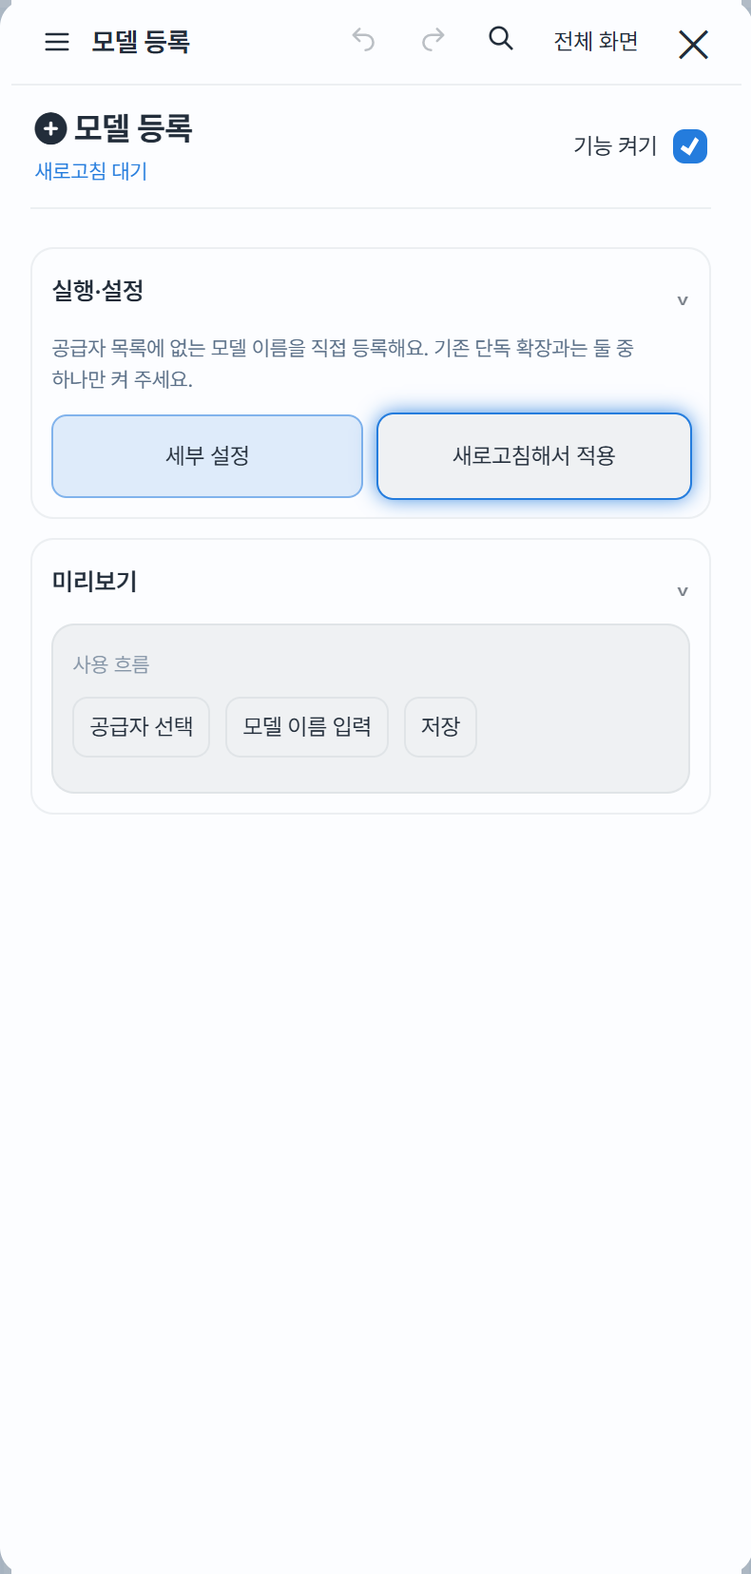
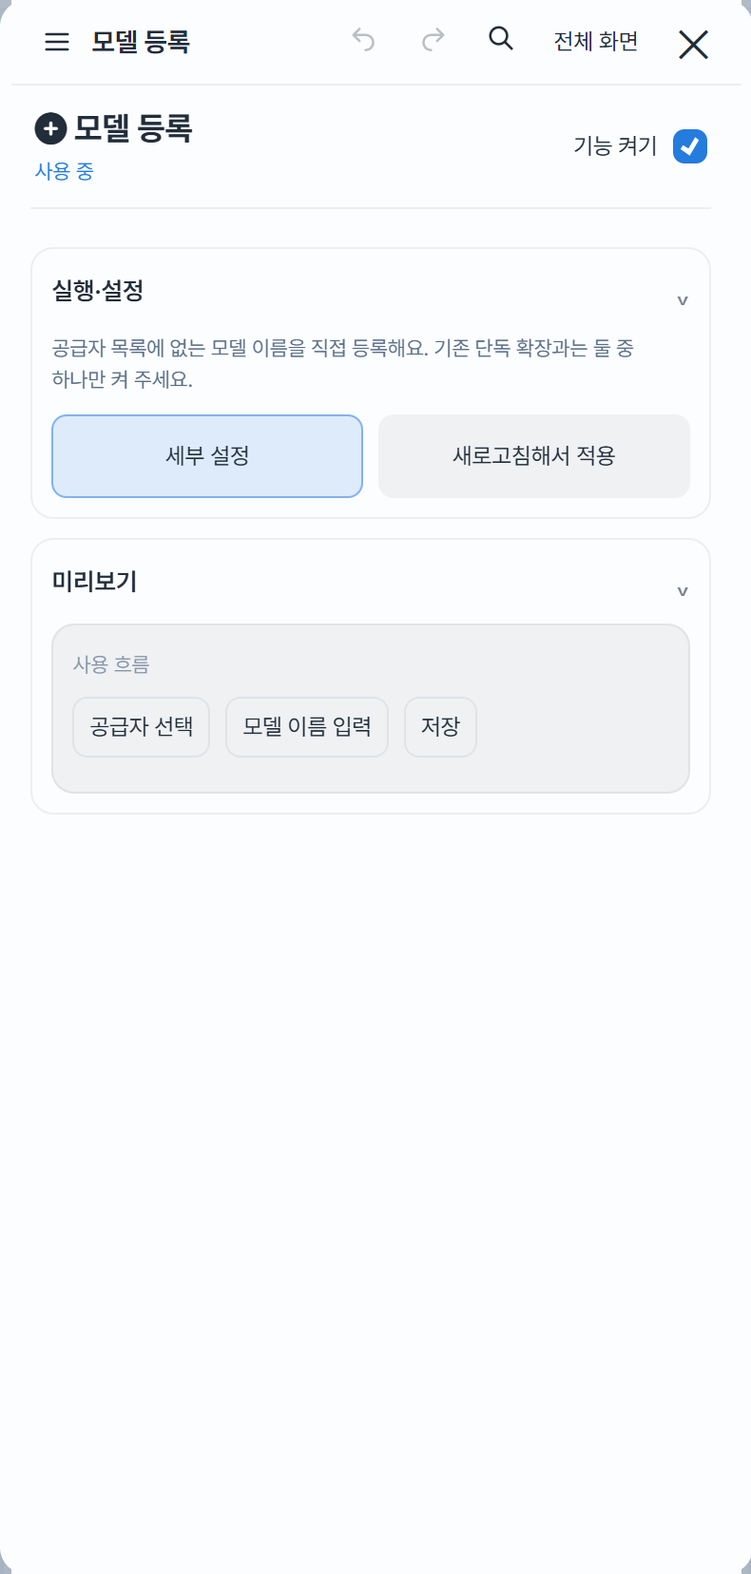
Site: 4.3.6 — prompt-linked regex addon, refreshed tool screens, corrected profile and script cards

Changed region(s): [[0.4861, 0.2464, 0.9418, 0.3388], [0.0608, 0.0924, 0.1823, 0.1232]]

diff --git a/docs/index.html b/docs/index.html
@@ -11,14 +11,14 @@
   <meta property="og:title" content="🍋 Blue Lemonade"><meta property="og:description" content="상큼하게, 가볍게, 조금 더 편하게. 실리태번 테마의 화면과 새 소식을 만나 보세요.">
   <meta property="og:image" content="https://kgangkgang.github.io/blue-lemonade/media/pc-chat.png">
   <link rel="preconnect" href="https://cdn.jsdelivr.net" crossorigin><link rel="stylesheet" href="https://cdn.jsdelivr.net/gh/orioncactus/pretendard@v1.3.9/dist/web/variable/pretendardvariable-dynamic-subset.min.css">
-  <link rel="stylesheet" href="site.css?v=426"><link rel="stylesheet" href="palette-preview.css?v=398-20260919-custom"><link rel="stylesheet" href="hero-phones.css?v=20260919-fit"><link rel="stylesheet" href="features.css?v=20260919-custom"><script src="features.js?v=20260919-custom" defer></script><script src="reading.js?v=20260919-custom" defer></script><script src="hero-phones.js?v=20260919-pop" defer></script><script src="site.js?v=434c" defer></script><script src="palette-preview.js?v=399-20260919-custom" defer></script>
+  <link rel="stylesheet" href="site.css?v=426"><link rel="stylesheet" href="palette-preview.css?v=398-20260919-custom"><link rel="stylesheet" href="hero-phones.css?v=20260919-fit"><link rel="stylesheet" href="features.css?v=20260919-custom"><script src="features.js?v=20260919-custom" defer></script><script src="reading.js?v=20260919-custom" defer></script><script src="hero-phones.js?v=20260919-pop" defer></script><script src="site.js?v=436" defer></script><script src="palette-preview.js?v=399-20260919-custom" defer></script>
 </head>
 <body>
   <header class="top"><div class="top-inner"><a class="brand" href="#"><span class="lemon" aria-hidden="true"></span>Blue Lemonade</a><nav aria-label="바로가기"><a href="#colors">테마 색상</a><a href="#gallery">둘러보기</a><a href="#features">전체 기능</a><a href="#updates">업데이트</a></nav><div class="top-actions"><button id="theme-toggle" class="icon-button" type="button" aria-label="화이트·나이트 전환"><svg viewBox="0 0 24 24" aria-hidden="true"><circle cx="12" cy="12" r="8.25" fill="none" stroke="currentColor" stroke-width="1.8"/><path d="M12 3.75a8.25 8.25 0 0 1 0 16.5z" fill="currentColor"/></svg></button><a class="button primary small" href="#install">설치</a></div></div><span class="progress" aria-hidden="true"></span></header>
   <main>
     <section class="hero">
       <div class="hero-copy">
-        <a class="release-chip" href="#updates"><span class="pulse" aria-hidden="true"></span><b>4.3.4</b><span>2026.09.21</span></a>
+        <a class="release-chip" href="#updates"><span class="pulse" aria-hidden="true"></span><b>4.3.6</b><span>2026.09.22</span></a>
         <h1>상큼하게,<br><span class="mark">가볍게</span><span class="dot">.</span></h1>
         <p class="lead">오래 머물고 싶은 이야기에는<br>눈이 편한 화면이 어울리니까.</p>
         <p class="intro">파란 형광펜과 레몬빛 포인트. 글꼴부터 색, 작은 버튼 하나까지 취향대로 바꾸는 SillyTavern 테마.</p>
@@ -71,10 +71,10 @@
     </section>
     <section id="gallery" class="section gallery-section" aria-labelledby="gallery-heading"><div class="section-head"><span class="eyebrow">03 · Look</span><h2 id="gallery-heading">이야기를 담는, 작은 차이.</h2><p>주제를 고르고 옆으로 넘겨 보세요. 이미지는 눌러서 크게 볼 수 있어요.</p></div><div id="galleries"></div><div id="rewrite-guide" class="rw-guide" hidden><ol class="rw-steps"><li><b>찾기</b><span>답변이 오면 금지 묘사 단어로 훑어요. 기기 안에서만 돌아서 비용이 없어요.</span></li><li><b>그 문장만 고치기</b><span>걸린 문장만 AI에게 보내 다시 쓰게 해요. 나머지 글은 한 글자도 안 바뀌어요.</span></li><li><b>안 되면 그대로</b><span>정한 횟수까지 다시 부탁하고, 끝내 안 되면 원래 문장을 남겨요.</span></li></ol><p class="rw-credit">기본 규칙·예외에 든 이름 <b>사탄 · 벨포드 · 아델스타인</b>은 <a href="https://kkangtong.xyz/posts/54677" target="_blank" rel="noopener">예시: 공유봇 천지합동청 ↗</a>의 캐릭터예요. 그 봇을 쓰지 않으면 지우거나 내 캐릭터 이름으로 바꾸세요.</p><p class="rw-where">확장 › 다시 쓰기에서 켜요.</p></div></section>
     <section id="features" class="section features-section" aria-labelledby="features-heading">
-      <div class="section-head"><span class="eyebrow">04 · Detail</span><h2 id="features-heading">작은 설정까지, 빠짐없이.</h2><p>묶음을 펼치면 기능과 설정 위치가 보여요. 4.1.2 기준.</p></div>
+      <div class="section-head"><span class="eyebrow">04 · Detail</span><h2 id="features-heading">작은 설정까지, 빠짐없이.</h2><p>묶음을 펼치면 기능과 설정 위치가 보여요. 4.3.6 기준.</p></div>
       <div class="feature-search" hidden><label for="feature-query" class="palette-sr-only">기능 찾기</label><svg viewBox="0 0 24 24" aria-hidden="true"><circle cx="10.5" cy="10.5" r="6.5" fill="none" stroke="currentColor" stroke-width="2"/><path d="m15.5 15.5 5 5" stroke="currentColor" stroke-width="2" stroke-linecap="round"/></svg><input id="feature-query" type="search" placeholder="자간, 들여쓰기, 글꼴, 이미지…" autocomplete="off"><button id="feature-clear" type="button" aria-label="검색어 지우기">×</button></div>
-      <p id="feature-result" class="feature-result" role="status">90가지 기능 안내</p>
-      <div id="feature-groups"><details class="feature-group"><summary><span><b>스크립트와 업데이트</b><small>한글화부터 접기, 업데이트까지 테마 안에서.</small></span><span class="feature-group-count">2가지</span></summary><div class="feature-grid"><article class="feature-card"><h4>한글화·접기 스크립트</h4><p>실리태번·헬퍼 한글화, 데우스·샤진 프롬프트 번역과 삼각형 접기를 각각 켜고 끄고, 코드도 편집할 수 있어요.</p><p>처음에는 모두 꺼져 있어요. 기존 헬퍼에서 같은 스크립트를 끈 뒤, 여기서 필요한 항목만 켜 주세요. PC는 왼쪽 목록·오른쪽 편집기, 모바일은 한 줄로 이어져요. 사용자 수정 코드는 테마 업데이트 뒤에도 남아요.</p><small>확장 › 스크립트</small></article><article class="feature-card"><h4>테마만 업데이트</h4><p>전체 확장 목록을 기다리지 않고 블루레몬에이드만 확인해요. Git 설치는 업데이트 버튼, ZIP 설치는 다운로드 안내를 제공해요.</p><p>업데이트 확인 → 업데이트하기 → 새로고침해서 적용 순서예요. 확인 버튼을 누르기 전에는 서버에 조회하지 않아요.</p><small>테마 › 업데이트</small></article></div></details><details class="feature-group" data-default-open="false"><summary><span><b>글자 · 문단</b><small>글꼴부터 문장 사이의 여백까지, 오래 읽기 편한 화면.</small></span><span class="feature-group-count">12가지</span></summary><div class="feature-grid"><article class="feature-card"><h4>본문 크기·굵기·자간</h4><p>글자를 키우거나 두껍게 하고, 글자 사이를 조여 한눈에 들어오는 밀도를 맞춰요.</p><small>글자 › 본문</small></article>
+      <p id="feature-result" class="feature-result" role="status">91가지 기능 안내</p>
+      <div id="feature-groups"><details class="feature-group"><summary><span><b>스크립트와 업데이트</b><small>한글화부터 접기, 업데이트까지 테마 안에서.</small></span><span class="feature-group-count">2가지</span></summary><div class="feature-grid"><article class="feature-card"><h4>한글화·접기 스크립트</h4><p>실리태번·헬퍼 한글화, 데우스·샤진 프롬프트 번역과 삼각형 접기를 각각 켜고 끄고, 코드도 편집할 수 있어요. 데우스 번역은 2.5의 「Extra Long」(아주 길게)·「Romantic」(로맨틱)까지 따라가요.</p><p>처음에는 모두 꺼져 있어요. 기존 헬퍼에서 같은 스크립트를 끈 뒤, 여기서 필요한 항목만 켜 주세요. PC는 왼쪽 목록·오른쪽 편집기, 모바일은 한 줄로 이어져요. 사용자 수정 코드는 테마 업데이트 뒤에도 남아요. 헬퍼 메뉴가 번역되지 않을 때는 <b>진단</b> 버튼을 누르면 무엇이 어긋났는지 몇 줄로 보여 줘요.</p><small>확장 › 스크립트</small></article><article class="feature-card"><h4>테마만 업데이트</h4><p>전체 확장 목록을 기다리지 않고 블루레몬에이드만 확인해요. Git 설치는 업데이트 버튼, ZIP 설치는 다운로드 안내를 제공해요.</p><p>업데이트 확인 → 업데이트하기 → 새로고침해서 적용 순서예요. 확인 버튼을 누르기 전에는 서버에 조회하지 않아요.</p><small>테마 › 업데이트</small></article></div></details><details class="feature-group" data-default-open="false"><summary><span><b>글자 · 문단</b><small>글꼴부터 문장 사이의 여백까지, 오래 읽기 편한 화면.</small></span><span class="feature-group-count">12가지</span></summary><div class="feature-grid"><article class="feature-card"><h4>본문 크기·굵기·자간</h4><p>글자를 키우거나 두껍게 하고, 글자 사이를 조여 한눈에 들어오는 밀도를 맞춰요.</p><small>글자 › 본문</small></article>
 <article class="feature-card"><h4>줄간격</h4><p>줄과 줄 사이를 넓히거나 좁혀, 긴 답변을 읽는 호흡을 바꿔요.</p><small>글자 › 본문</small></article>
 <article class="feature-card"><h4>문단 간격·첫 줄 들여쓰기</h4><p>문단 사이 여백과 첫 줄 들여쓰기를 따로 골라 소설책처럼 정돈해요.</p><small>글자 › 문단</small></article>
 <article class="feature-card"><h4>왼쪽·양쪽 정렬</h4><p>왼쪽 정렬, 낱말을 유지하는 양쪽 정렬, 낱말도 끊어 채우는 양쪽 정렬을 골라요.</p><small>글자 › 문단</small></article>
@@ -114,7 +114,7 @@
 <article class="feature-card"><h4>늘 보이는 메시지 버튼</h4><p>메시지의 ··· 메뉴 안 버튼 중 자주 쓰는 것을 골라 메뉴 밖에 늘 보이게 해요. 번역 같은 다른 확장의 버튼도 고를 수 있고, 풀면 원래 자리로 돌아가요.</p><small>채팅 › 화면 › 메시지 버튼</small></article>
 <article class="feature-card"><h4>백그라운드에서도 계속 (실험)</h4><p>답을 기다리는 동안 다른 앱을 봐도 생성과 자동 번역이 멈추지 않게 해요. 보내기 · 스와이프를 누를 때 켜지고, 끝나면 꺼져요.</p><p>기본은 창 없이 버티는 방식이고, 안 통하는 폰에서는 진행 상황이 보이는 작은 창(PIP) 방식을 골라요.</p><small>채팅 › 화면 › 폰</small></article>
 </div></details>
-<details class="feature-group" data-default-open="false"><summary><span><b>프로필 · 이름 · 장식 액자</b><small>캐릭터와 내 사진을 각각, 이름 아래 버튼까지.</small></span><span class="feature-group-count">7가지</span></summary><div class="feature-grid"><article class="feature-card"><h4>사진을 본문 위에 크게</h4><p>프로필 없음·작은 프로필·상단 큰 프로필 중 골라요. 본문 폭·가로 꽉·작게 배치, 픽셀·화면 높이 %·사진 비율과 세로로 남길 부분을 골라요. 위치·모서리·간격·흐림·투명도도 맞춰요.</p><small>채팅 › 캐릭터 프로필</small></article><article class="feature-card"><h4>내 프로필도 독립적으로</h4><p>내 메시지의 사진을 숨기거나 작게, 본문 위에 크게 놓아요. 작은 사진은 왼쪽·오른쪽을 선택해요. 큰 사진의 크기·자르기·액자·이름 글꼴·정렬과 시간·버튼 배치를 캐릭터와 따로 꾸며요. 프로필 없음·작은 프로필·상단 큰 프로필 세 가지 중 골라요.</p><small>채팅 › 내 프로필 · 내 이름·시간</small></article><article class="feature-card"><h4>이름도 나만의 글꼴로</h4><p>이름 글꼴과 언어별 글꼴, 크기·굵기·자간·줄 높이·색·정렬·기울임·밑줄·외곽선·그림자를 조절해요.</p><small>채팅 › 캐릭터 이름·시간</small></article><article class="feature-card"><h4>시간과 버튼 세 가지 배치</h4><p>시간·메뉴·편집 버튼을 이름 옆 두 줄, 이름 아래 한 줄, 이름 아래 두 줄로 놓아요. 간격과 시간 글자 크기·진하기도 바꿔요.</p><small>채팅 › 캐릭터 이름·시간</small></article><article class="feature-card"><h4>내 PNG로 장식 액자</h4><p>물든 수채화·맥 브라우저·스크랩 다이어리·리본 포스트·겹친 메모지·낙서 노트 6종을 고르거나 내 액자를 불러와요. 수채화는 사진 자체가 번진 물감 모양이 되고, 리본·별·레몬 스티커는 사진과 종이 위로 겹쳐요. 공용 보관함에 최대 12개를 저장하고 에셋·캐릭터·내 프로필에 서로 다르게 적용해요. 선 안쪽에만 사진을 채우고 바깥은 투명하게 남겨요. 프리셋의 바탕색·포인트색과 액자 가로·세로 비율을 따로 바꾸고, 안쪽 사진 모서리·확대·위치·맞춤과 장식 진하기도 조절해요. 기본 프리셋은 비율에 맞춰 장식을 다시 그리고, 직접 불러온 그림은 전체를 늘이거나 줄여요.</p><small>채팅 › 캐릭터 프로필 · 이미지 › 테두리</small></article><article class="feature-card"><h4>액자 안쪽을 직접 확인</h4><p>배경색 제거·허용 범위·끊긴 틈 연결을 조절하고 안쪽을 눌러 선택해요. 자동 인식이 어려우면 영역의 위치·크기·모서리를 직접 정해요.</p><small>장식 액자 불러오기</small></article><article class="feature-card"><h4>선과 그림자 세부 조절</h4><p>얇은 선·안쪽 선·은은한 빛·이중선에 색·두께·진하기·실선/점선·표시할 면·여백·그림자 색·진하기·방향·번짐·확장을 더해요. 장식 액자는 네모 상자가 아닌 실제 액자 외곽에 그림자가 생기며 미리보기에도 바로 반영돼요.</p><small>채팅 › 캐릭터 프로필 · 이미지 › 테두리</small></article></div></details>
+<details class="feature-group" data-default-open="false"><summary><span><b>프로필 · 이름 · 장식 액자</b><small>캐릭터와 내 사진을 각각, 이름 아래 버튼까지.</small></span><span class="feature-group-count">7가지</span></summary><div class="feature-grid"><article class="feature-card"><h4>사진을 본문 위에 크게</h4><p>프로필 없음·작은 프로필·상단 큰 프로필 중 골라요. 본문 폭·가로 꽉·작게 배치, 픽셀·화면 높이 %·사진 비율과 세로로 남길 부분을 골라요. 위치·모서리·간격·흐림·투명도도 맞춰요.</p><small>채팅 › 캐릭터 프로필</small></article><article class="feature-card"><h4>내 프로필도 독립적으로</h4><p>내 메시지의 사진을 숨기거나 작게, 본문 위에 크게 놓아요. 작은 사진은 자동(말풍선이면 오른쪽)·왼쪽·오른쪽 중에 고르고, 번호·시간 줄도 사진 따라·왼쪽·오른쪽으로 놓아요. 큰 사진의 크기·자르기·액자·이름 글꼴·정렬과 시간·버튼 배치를 캐릭터와 따로 꾸며요. 프로필 없음·작은 프로필·상단 큰 프로필 세 가지 중 골라요.</p><small>채팅 › 내 프로필 · 내 이름·시간</small></article><article class="feature-card"><h4>이름도 나만의 글꼴로</h4><p>이름 글꼴과 언어별 글꼴, 크기·굵기·자간·줄 높이·색·정렬·기울임·밑줄·외곽선·그림자를 조절해요.</p><small>채팅 › 캐릭터 이름·시간</small></article><article class="feature-card"><h4>시간과 버튼 세 가지 배치</h4><p>시간·메뉴·편집 버튼을 이름 옆 두 줄, 이름 아래 한 줄, 이름 아래 두 줄로 놓아요. 간격과 시간 글자 크기·진하기도 바꿔요.</p><small>채팅 › 캐릭터 이름·시간</small></article><article class="feature-card"><h4>내 PNG로 장식 액자</h4><p>물든 수채화·맥 브라우저·스크랩 다이어리·리본 포스트·겹친 메모지·낙서 노트 6종을 고르거나 내 액자를 불러와요. 수채화는 사진 자체가 번진 물감 모양이 되고, 리본·별·레몬 스티커는 사진과 종이 위로 겹쳐요. 공용 보관함에 최대 12개를 저장하고 에셋·캐릭터·내 프로필에 서로 다르게 적용해요. 선 안쪽에만 사진을 채우고 바깥은 투명하게 남겨요. 프리셋의 바탕색·포인트색과 액자 가로·세로 비율을 따로 바꾸고, 안쪽 사진 모서리·확대·위치·맞춤과 장식 진하기도 조절해요. 기본 프리셋은 비율에 맞춰 장식을 다시 그리고, 직접 불러온 그림은 전체를 늘이거나 줄여요.</p><small>채팅 › 캐릭터 프로필 · 이미지 › 테두리</small></article><article class="feature-card"><h4>액자 안쪽을 직접 확인</h4><p>배경색 제거·허용 범위·끊긴 틈 연결을 조절하고 안쪽을 눌러 선택해요. 자동 인식이 어려우면 영역의 위치·크기·모서리를 직접 정해요.</p><small>장식 액자 불러오기</small></article><article class="feature-card"><h4>선과 그림자 세부 조절</h4><p>얇은 선·안쪽 선·은은한 빛·이중선에 색·두께·진하기·실선/점선·표시할 면·여백·그림자 색·진하기·방향·번짐·확장을 더해요. 장식 액자는 네모 상자가 아닌 실제 액자 외곽에 그림자가 생기며 미리보기에도 바로 반영돼요.</p><small>채팅 › 캐릭터 프로필 · 이미지 › 테두리</small></article></div></details>
 <details class="feature-group" data-default-open="false"><summary><span><b>이미지 · 에셋</b><small>그림도 채팅 속에 자연스럽게 들어오도록.</small></span><span class="feature-group-count">8가지</span></summary><div class="feature-grid"><article class="feature-card"><h4>가로 꽉·본문 폭·작게</h4><p>채팅 이미지를 화면 끝까지 넓히거나 본문 폭에 맞추고, 작게 넣을 수도 있어요.</p><small>이미지 › 배치</small></article>
 <article class="feature-card"><h4>비율 유지·높이 맞춤</h4><p>원본 비율을 살리면서 최대 높이를 제한하거나, 그림마다 일정한 높이에 맞춰요.</p><small>이미지 › 크기</small></article>
 <article class="feature-card"><h4>모서리·커스텀 모양</h4><p>네모 이미지의 모서리를 둥글게 하고, 투명한 그림을 도형으로 불러와 원하는 실루엣으로 보여 줘요.</p><small>이미지 › 모양</small></article>
@@ -133,10 +133,11 @@
 <article class="feature-card"><h4>트래커 날씨 따라가기</h4><p>데우스 호환을 켜면 트래커가 비·눈을 알려 줄 때 채팅 뒤 날씨 효과도 따라가요.</p><p>비 · 눈 · 안개 · 햇살 · 밤의 별 · 무지개 · 바람을 알아보고, 실내의 비는 유리 빗방울로 바꿔요. 둘이면 겹치고, 빼고 싶은 날씨는 ‘제외할 날씨’에서 골라요.</p><small>프롬프트 › 트래커 날씨로 날씨 효과</small></article>
 <article class="feature-card"><h4>데우스 감정 대사 애니메이션</h4><p>데우스 엑스 마키나의 Expressive Dialogue(외침 · 떨림 · 울음 · 들뜸 …)가 테마 위에서도 또렷하게 움직여요. 움직임 크기(은은하게 · 보통 · 크게), 빛, 색 흐름을 따로 고르고, 색 흐름은 글자나 형광펜 중 어디에 줄지 정해요. 「」·『』 대사도 테마가 알아서 잡아요.</p><p>기기가 애니메이션 줄이기 상태면 ‘기기 설정 무시’를 켜야 움직여요. 설정 창 미리보기에서 바로 확인할 수 있어요.</p><small>프롬프트 › 데우스 엑스 마키나 › 감정 대사 효과</small></article>
 </div></details>
-<details class="feature-group" data-default-open="false"><summary><span><b>선택해서 켜는 확장</b><small>PC에서는 왼쪽에서 기능·표시 위치를 고르고 오른쪽에서 세부 설정을 바로 조절해요. 모바일에서는 세부 설정 버튼을 눌러요. 필요한 기능만 켜요. 확장 순서·성능 보조·모델 등록·모델 순서는 전환 후 새로고침해요.</small></span><span class="feature-group-count">9가지</span></summary><div class="feature-grid"><article class="feature-card"><h4>단어 치환</h4><p>찾을 말은 쉼표로 함께 적어요. 예: 레몬, lemon → 귤. ? 버튼에서 대소문자·낱말·조사 보정 예시를 봐요.</p><p>이전 채팅 불러오기에 10을 입력하면 지금 목록에 10개를 더해요. 메시지 목록의 번역본 보기·원문 보기로 내용을 확인해요. 번역이 없으면 원문이라고 표시해요. 선택한 원문이나 번역문을 작업대로 가져오고, 채팅에 적용하기 전에 전후를 비교해요.</p><small>확장 › 단어 치환</small></article><article class="feature-card"><h4>채팅 이미지·영상·움짤 캡처</h4><p>메시지 목록에서 번역본 보기·원문 보기로 내용을 확인해요. 메시지 선택 → 저장 형식과 표시 항목 선택 → 미리보기 → 저장 순서로 써요. 본문만·전체 정보·직접 선택으로 이름·프로필·날짜와 시간·모델·채팅 번호·토큰·생성 시간·에셋을 각각 고르고, 캡처용 글 편집에서 문장을 고치거나 문단을 옮겨요.</p><p>캡처에만 단어 치환을 적용하거나 여러 이름을 가려요. 네모·모자이크·테이프마다 색·여백·외곽선·그림자를 따로 저장해요. 원문과 번역문은 바뀌지 않아요.</p><p>PNG는 최대 3배·16MP, 영상은 3~30초·너비 최대 1080px 또는 1440px·30fps로 저장해요. 자동 스크롤 없이 고정 화면으로 저장해요. 파일당 최대 문단 수를 1~20개로 정하고, 화면을 넘는 긴 문단은 줄 사이에서 더 나눠요. 각 파일을 미리 보거나 전체 ZIP으로 저장해요. GIF는 최대 720px·10fps·256색이에요. 재생 중인 배경과 날씨를 담고 테마색 비율로 가독성을 조절해요. 원본 대화나 재생 시간 설정을 바꾸지 않으며, 소리는 포함하지 않아요.</p><p>영상과 움짤에는 채팅에서 돌던 글자 움직임(데우스 감정 대사의 흔들림 · 빛 · 색 흐름)도 함께 담겨요.</p><p>움짤은 GIF · APNG(색 그대로) · WebP(가볍게) 중에 고르고, APNG · WebP 는 최대 용량(MB)을 정하면 한도에 맞춰 저장해요. 미리보기 아래에 파일 용량이 나와요.</p><p>캡처 창을 열면 빠른 미리보기로 첫 화면부터 보고, 저장할 파일은 ‘파일 만들기’를 누를 때만 만들어요. 8MB 움짤 · 선명한 움짤 · 고화질 영상 · 이미지 프리셋이 들어 있고 내 프리셋도 12개까지 저장해요. 글 편집은 문단마다 한 줄 + 체크박스라, 고른 문단만 남기거나 한 번에 지워요.</p><small>확장 › 채팅 캡처</small></article><article class="feature-card"><h4>확장 순서</h4><p>기능을 켠 뒤 새로고침해서 적용을 눌러요. 세부 설정에서 순서를 정하고, 확장 관리 탭 상단 아이콘을 표시할지 골라요. 위치 미리보기로 어디에 나타나는지 확인해요. 기존 단독 확장이 켜져 있으면 중복 실행을 막아요.</p><small>확장 › 확장 순서</small></article><article class="feature-card"><h4>성능 보조</h4><p>끊김 감시·로딩 시간·성능 보조·요청 로그·저장 정리의 별 두 개 메뉴 표시를 각각 골라요. ? 버튼에서 부분 다시 그리기와 저장 방식 설명을 봐요.</p><p>끊김 감시는 스트리밍 응답에만 적용돼요. 비스트리밍 응답과 첫 내용이 도착하기 전의 대기는 기본적으로 감시하지 않아요. 메뉴 숨김은 기능 끄기와 별개예요.</p><small>확장 › 성능 보조</small></article><article class="feature-card"><h4>모델 등록</h4><p>목록에 없는 모델 이름을 공급자별로 직접 등록해요. 기존 단독 확장과 중복 실행하지 않아요.</p><small>확장 › 모델 등록</small></article><article class="feature-card"><h4>모델 순서</h4><p>직접 등록한 모델의 손잡이를 끌거나 화살표로 정렬해요. 기존 단독 확장과 함께 실행하지 않아요.</p><small>확장 › 모델 순서</small></article>
+<details class="feature-group" data-default-open="false"><summary><span><b>선택해서 켜는 확장</b><small>PC에서는 왼쪽에서 기능·표시 위치를 고르고 오른쪽에서 세부 설정을 바로 조절해요. 모바일에서는 세부 설정 버튼을 눌러요. 필요한 기능만 켜요. 확장 순서·성능 보조·모델 등록·모델 순서는 전환 후 새로고침해요.</small></span><span class="feature-group-count">10가지</span></summary><div class="feature-grid"><article class="feature-card"><h4>단어 치환</h4><p>찾을 말은 쉼표로 함께 적어요. 예: 레몬, lemon → 귤. ? 버튼에서 대소문자·낱말·조사 보정 예시를 봐요.</p><p>이전 채팅 불러오기에 10을 입력하면 지금 목록에 10개를 더해요. 메시지 목록의 번역본 보기·원문 보기로 내용을 확인해요. 번역이 없으면 원문이라고 표시해요. 선택한 원문이나 번역문을 작업대로 가져오고, 채팅에 적용하기 전에 전후를 비교해요.</p><small>확장 › 단어 치환</small></article><article class="feature-card"><h4>채팅 이미지·영상·움짤 캡처</h4><p>메시지 목록에서 번역본 보기·원문 보기로 내용을 확인해요. 메시지 선택 → 저장 형식과 표시 항목 선택 → 미리보기 → 저장 순서로 써요. 본문만·전체 정보·직접 선택으로 이름·프로필·날짜와 시간·모델·채팅 번호·토큰·생성 시간·에셋을 각각 고르고, 캡처용 글 편집에서 문장을 고치거나 문단을 옮겨요.</p><p>캡처에만 단어 치환을 적용하거나 여러 이름을 가려요. 네모·모자이크·테이프마다 색·여백·외곽선·그림자를 따로 저장해요. 원문과 번역문은 바뀌지 않아요.</p><p>PNG는 최대 3배·16MP, 영상은 3~30초·너비 최대 1080px 또는 1440px·30fps로 저장해요. 자동 스크롤 없이 고정 화면으로 저장해요. 파일당 최대 문단 수를 1~20개로 정하고, 화면을 넘는 긴 문단은 줄 사이에서 더 나눠요. 각 파일을 미리 보거나 전체 ZIP으로 저장해요. GIF는 최대 720px·10fps·256색이에요. 재생 중인 배경과 날씨를 담고 테마색 비율로 가독성을 조절해요. 원본 대화나 재생 시간 설정을 바꾸지 않으며, 소리는 포함하지 않아요.</p><p>영상과 움짤에는 채팅에서 돌던 글자 움직임(데우스 감정 대사의 흔들림 · 빛 · 색 흐름)도 함께 담겨요.</p><p>움짤은 GIF · APNG(색 그대로) · WebP(가볍게) 중에 고르고, APNG · WebP 는 최대 용량(MB)을 정하면 한도에 맞춰 저장해요. 미리보기 아래에 파일 용량이 나와요.</p><p>캡처 창을 열면 빠른 미리보기로 첫 화면부터 보고, 저장할 파일은 ‘파일 만들기’를 누를 때만 만들어요. 8MB 움짤 · 선명한 움짤 · 고화질 영상 · 이미지 프리셋이 들어 있고 내 프리셋도 12개까지 저장해요. 글 편집은 문단마다 한 줄 + 체크박스라, 고른 문단만 남기거나 한 번에 지워요.</p><small>확장 › 채팅 캡처</small></article><article class="feature-card"><h4>확장 순서</h4><p>기능을 켠 뒤 새로고침해서 적용을 눌러요. 세부 설정에서 순서를 정하고, 확장 관리 탭 상단 아이콘을 표시할지 골라요. 위치 미리보기로 어디에 나타나는지 확인해요. 기존 단독 확장이 켜져 있으면 중복 실행을 막아요.</p><small>확장 › 확장 순서</small></article><article class="feature-card"><h4>성능 보조</h4><p>끊김 감시·로딩 시간·성능 보조·요청 로그·저장 정리의 별 두 개 메뉴 표시를 각각 골라요. ? 버튼에서 부분 다시 그리기와 저장 방식 설명을 봐요.</p><p>끊김 감시는 스트리밍 응답에만 적용돼요. 비스트리밍 응답과 첫 내용이 도착하기 전의 대기는 기본적으로 감시하지 않아요. 메뉴 숨김은 기능 끄기와 별개예요.</p><small>확장 › 성능 보조</small></article><article class="feature-card"><h4>모델 등록</h4><p>목록에 없는 모델 이름을 공급자별로 직접 등록해요. 기존 단독 확장과 중복 실행하지 않아요.</p><small>확장 › 모델 등록</small></article><article class="feature-card"><h4>모델 순서</h4><p>직접 등록한 모델의 손잡이를 끌거나 화살표로 정렬해요. 기존 단독 확장과 함께 실행하지 않아요.</p><small>확장 › 모델 순서</small></article>
 <article class="feature-card"><h4>모델 전환</h4><p>모델을 따로 고르는 확장들의 공급자와 모델을 한 번에 바꿔요. 자주 쓰는 조합을 저장해 두고, 바꿀 확장은 체크로 골라요.</p><p>잠금을 켜면 고른 확장의 연결 칸을 그 확장 화면에서 실수로 바꾸지 않게 막아요.</p><small>확장 › 모델 전환</small></article>
 <article class="feature-card"><h4>다시 쓰기</h4><p>AI 답변에서 보기 싫은 묘사가 나온 문장만 골라 다시 쓰게 해요. 금지 단어 규칙은 직접 적거나, 들어 있는 프롬프트를 AI에게 주고 만들게 할 수 있어요.</p><p>기본 규칙의 이름 예시(사탄 · 벨포드 · 아델스타인)는 <a href="https://kkangtong.xyz/posts/54677" target="_blank" rel="noopener">예시: 공유봇 천지합동청</a>의 캐릭터예요. 그 봇을 쓰지 않으면 지우거나 내 캐릭터 이름으로 바꾸세요.</p><small>확장 › 다시 쓰기</small></article>
 <article class="feature-card"><h4>북마크</h4><p>메시지의 별 단추로 표시를 남기고(길게 누르면 메모), ✦ 메뉴의 북마크에서 모아 보고 · 찾고 · 그 자리로 돌아가요. 앞뒤 문맥 보기, 같은 캐릭터의 다른 채팅, 채팅 전체 검색, 번역 확장 연동이 들어 있어요.</p><p>카드의 글은 채팅과 같은 서식(글꼴 · 자간 · 줄 간격 · 대사 형광펜 · 데우스 감정 대사의 움직임)이에요. 접힌 카드는 세 줄만 보이고, 데우스 엑스 마키나 › 본문만 보기로 장면 계획 · 트래커 카드를 뺄 수 있어요. 북마크 설정의 테마에서 밝게 · 어둡게를 고르면 채팅은 그대로 두고 북마크 창만 바뀌어요.</p><small>확장 › 북마크</small></article>
+<article class="feature-card"><h4>프롬프트 연동 정규식</h4><p>프롬프트 관리자에서 끈 모듈(모멘텀 엔진 · 상태창 · 선택지 …)의 정규식을 자동으로 꺼요. 다시 켜면 원래대로 돌아오고, 꺼진 정규식은 답이 오는 동안 돌지 않아 스트리밍이 가벼워져요.</p><p>정규식 이름·내용의 @태그와 프롬프트 이름을 맞춰 짝을 찾고, 모듈마다 프롬프트 따라 · 늘 켜기 · 늘 끄기를 고를 수 있어요. 이전 답에 그 모듈이 남아 있으면 켜 둬요. 처음에는 꺼져 있어요.</p><small>확장 › 프롬프트 연동 정규식</small></article>
 </div></details>
 <details class="feature-group" data-default-open="false"><summary><span><b>설정 · 백업</b><small>손본 모습은 보관하고, 다음에도 편하게.</small></span><span class="feature-group-count">16가지</span></summary><div class="feature-grid"><article class="feature-card"><h4>말로 찾는 설정 검색</h4><p>QR 편집, 내 사진 오른쪽, 에셋 그림자처럼 기능 이름이나 자주 쓰는 표현으로 찾아요. 결과를 누르면 관련 탭과 항목으로 이동해요. 접힌 기능도 검색하며 검색어는 기기 안에서만 처리해요.</p><small>설정 창 상단 › 설정 찾기</small></article><article class="feature-card"><h4>미리보기 확대·축소·이동</h4><p>50~300%로 가까이 보거나 멀리 봐요. PC에서는 −·+ 버튼과 드래그·방향키, 모바일에서는 두 손가락과 드래그로 조절해요. 원래 크기로 돌아갈 수 있고 테마의 실제 크기 값은 그대로예요.</p><small>각 미리보기 › 확대·축소·원래 크기</small></article><article class="feature-card"><h4>전체 화면·되돌리기</h4><p>설정창 위쪽 버튼으로 전체 화면과 작은 창을 바꾸고, 되돌리기·다시 실행으로 방금 바꾼 값을 오가요. 무엇이 바뀌었는지 알림으로 보여 주고 최근 40단계를 기억해요.</p><small>설정창 위 버튼 · 미리보기 손잡이로 높이 조절</small></article><article class="feature-card"><h4>항목별 초기화·변경한 설정</h4><p>바꾼 설정 옆 ↺ 버튼으로 그 항목만 기본값으로 돌려요. 변경한 설정에서 기본값과 다른 항목을 모아 보고, 그 설정으로 가거나 하나씩 복원해요. 저장한 액자·글꼴·스타일은 지우지 않아요.</p><small>테마 › 변경한 설정 · 각 설정 옆 ↺</small></article><article class="feature-card"><h4>폰에서도 안전한 슬라이더</h4><p>슬라이더는 손가락을 가로로 밀 때만 움직여요. 세로로 스크롤하거나 살짝 닿아도 값이 바뀌지 않아요.</p><small>모바일 설정창</small></article><article class="feature-card"><h4>큰 숫자는 쉼표로</h4><p>컨텍스트 크기·응답 길이·토큰 수처럼 큰 숫자를 128,000처럼 끊어 보여 줘요. 입력한 값과 저장되는 값은 그대로라 0 하나를 더 붙였는지 헷갈리지 않아요.</p><small>실리태번 설정 전체</small></article><article class="feature-card"><h4>폰에서도 두 칸으로 · 프롬프트 목록 정리</h4><p>AI 응답 설정의 슬라이더를 두 칸으로 나란히 놓아 한 화면에 더 많이 보여요. 프롬프트 목록은 위쪽을 '프롬프트 · 총 토큰'과 고르기·아이콘 두 줄로 정리하고, 토큰 수는 오른쪽에 맞춰요.</p><small>AI 응답 설정 · 프롬프트</small></article><article class="feature-card"><h4>연결된 로어북 표시</h4><p>봇 카드의 캐릭터·채팅 로어북 아이콘이 테마색으로 은은하게 빛나요. 그룹 채팅에도 적용되고, 연결을 해제하면 원래 모습으로 돌아와요. 매 턴 발동한 항목이 아닌 책의 연결 여부를 표시해요.</p><small>봇 카드 › 지구본·채팅 로어북 아이콘</small></article><article class="feature-card"><h4>설정 즐겨찾기</h4><p>설정 선택과 검색 결과의 별을 눌러 자주 쓰는 항목을 맨 위에 고정해요. 캐릭터 즐겨찾기와 같은 별 모양이고, 이 브라우저에 최대 16개까지 기억해요.</p><small>☰ 설정 선택 · 검색 결과의 별</small></article><article class="feature-card"><h4>설정 내보내기·가져오기</h4><p>테마 설정을 JSON 파일로 보관하고 다시 불러와요. 스타일 공유와 별도로 전체 설정을 옮길 때 사용해요.</p><small>테마 › 백업</small></article>
 <article class="feature-card"><h4>실리태번 설정 맞추기·초기화</h4><p>실리태번의 흐림·그림자·말풍선 모양을 테마에 맞춰요. 처음 설정으로 되돌릴 때도 내 글꼴 목록은 남아요.</p><small>테마 › 백업</small></article>
@@ -147,8 +148,8 @@
 <article class="feature-card"><h4>테마 내 공지사항·업데이트</h4><p>설정 창의 버전 표시를 누르면 테마 안에서 공지사항과 업데이트 내용을 볼 수 있어요. 새 공지가 있으면 버전 표시가 빛나요.</p><small>Blue Lemonade › 버전 표시</small></article>
 </div></details></div><p id="feature-empty" hidden>일치하는 기능이 없어요. 다른 단어로 찾아보세요.</p>
     </section>
-    <section id="updates" class="section updates" aria-labelledby="updates-heading"><div class="section-head"><span class="eyebrow">05 · New</span><h2 id="updates-heading">조금씩 더 편해지는 중.</h2><p>날짜를 누르면 그날의 업데이트가 펼쳐져요.</p></div><aside class="notice-guide"><span aria-hidden="true">✦</span><p><strong>테마 안에서도 공지사항을 볼 수 있어요.</strong> 설정 창의 <b>버전 표시(v4.3.4)</b>를 누르면 열리고, 새 공지가 있으면 버전 표시가 빛나요.</p></aside><div id="notes"><p>업데이트 내역을 불러오는 중이에요.</p></div></section>
-    <section id="install" class="install" aria-labelledby="install-heading"><div class="install-inner"><span class="eyebrow">Make yourself at home</span><h2 id="install-heading">이제, 내 이야기 차례.</h2><p class="install-lead">모바일·PC 모두 ZIP 파일이나 저장소 주소로 설치할 수 있어요.</p><div class="install-grid"><article><span class="step">01 · ZIP</span><h3>ZIP으로 설치</h3><p>ZIP을 풀어 <code>extensions/blue-lemonade</code>에 덮어쓴 뒤 실리태번을 새로고침하세요. 기존 테마 설정은 그대로 남아요.</p><a class="button citrus" download href="downloads/blue-lemonade-4.3.4.zip">4.3.4 ZIP 받기 <span aria-hidden="true">↓</span></a></article><article><span class="step">02 · Repository</span><h3>저장소로 설치</h3><p>실리태번의 확장 설치에 아래 주소를 넣으세요. 4.0.8부터는 테마 설정의 업데이트에서 이 테마만 확인할 수 있어요.</p><div class="copy-row"><code id="repo-url">https://github.com/kgangkgang/blue-lemonade</code><button id="copy-repo" aria-label="설치 주소 복사">복사</button></div><a class="text-link" href="https://github.com/kgangkgang/blue-lemonade" target="_blank" rel="noopener">GitHub 저장소 ↗</a></article></div><p class="install-note">다른 테마 확장은 끄고 사용해 주세요. 모양이 섞이면 ‘채팅 › 기타 › 커스텀 CSS 끄기’를 확인해 보세요.</p></div></section>
+    <section id="updates" class="section updates" aria-labelledby="updates-heading"><div class="section-head"><span class="eyebrow">05 · New</span><h2 id="updates-heading">조금씩 더 편해지는 중.</h2><p>날짜를 누르면 그날의 업데이트가 펼쳐져요.</p></div><aside class="notice-guide"><span aria-hidden="true">✦</span><p><strong>테마 안에서도 공지사항을 볼 수 있어요.</strong> 설정 창의 <b>버전 표시(v4.3.6)</b>를 누르면 열리고, 새 공지가 있으면 버전 표시가 빛나요.</p></aside><div id="notes"><p>업데이트 내역을 불러오는 중이에요.</p></div></section>
+    <section id="install" class="install" aria-labelledby="install-heading"><div class="install-inner"><span class="eyebrow">Make yourself at home</span><h2 id="install-heading">이제, 내 이야기 차례.</h2><p class="install-lead">모바일·PC 모두 ZIP 파일이나 저장소 주소로 설치할 수 있어요.</p><div class="install-grid"><article><span class="step">01 · ZIP</span><h3>ZIP으로 설치</h3><p>ZIP을 풀어 <code>extensions/blue-lemonade</code>에 덮어쓴 뒤 실리태번을 새로고침하세요. 기존 테마 설정은 그대로 남아요.</p><a class="button citrus" download href="downloads/blue-lemonade-4.3.6.zip">4.3.6 ZIP 받기 <span aria-hidden="true">↓</span></a></article><article><span class="step">02 · Repository</span><h3>저장소로 설치</h3><p>실리태번의 확장 설치에 아래 주소를 넣으세요. 4.0.8부터는 테마 설정의 업데이트에서 이 테마만 확인할 수 있어요.</p><div class="copy-row"><code id="repo-url">https://github.com/kgangkgang/blue-lemonade</code><button id="copy-repo" aria-label="설치 주소 복사">복사</button></div><a class="text-link" href="https://github.com/kgangkgang/blue-lemonade" target="_blank" rel="noopener">GitHub 저장소 ↗</a></article></div><p class="install-note">다른 테마 확장은 끄고 사용해 주세요. 모양이 섞이면 ‘채팅 › 기타 › 커스텀 CSS 끄기’를 확인해 보세요.</p></div></section>
   </main>
   <footer><a class="brand" href="#"><span class="lemon" aria-hidden="true"></span>Blue Lemonade</a><p>새 기능은 상큼하게, 화면은 가볍게.</p><span>스크린샷·영상은 소개용 가상 채팅에서 촬영했습니다.</span></footer>
   <dialog id="lightbox"><button class="close" aria-label="이미지 닫기">×</button><img alt=""><p></p></dialog><div id="toast" role="status" aria-live="polite"></div>

diff --git a/docs/site.js b/docs/site.js
@@ -106,6 +106,7 @@ const topics = [
     S('capture-info', '본문만 또는 원하는 정보만', ''),
   ]},
   { id:'tools', label:'도구', title:'필요한 것만 켜는, 작은 도구.', sub:'스크립트 · 단어 치환 · 확장 순서 · 모델 등록·순서·전환 · 성능 보조 · 단독 업데이트', cards: [
+    P('regexlink', '끈 모듈의 정규식도 같이 꺼지게', "프롬프트 관리자에서 끈 모듈(모멘텀 엔진 · 상태창 · 선택지 …)의 정규식을 자동으로 끄고, 다시 켜면 돌려놓아요. 모듈마다 프롬프트 따라 · 늘 켜기 · 늘 끄기를 고를 수 있어요."),
     P('scripts', '필요한 스크립트만 켜요', '실리태번 · 헬퍼 한글화, 데우스 · 샤진 번역과 삼각형 접기를 각각 선택해요. 기존 헬퍼의 같은 스크립트는 먼저 꺼 주세요.'),
     P('update-tool', '이 테마만 업데이트', '전체 확장 목록을 기다리지 않고 확인해요. 업데이트 후 새로고침하면 적용돼요.'),
     P('modelswitch', '여러 확장의 모델을 한 번에', '모델을 따로 고르는 확장들의 공급자와 모델을 함께 바꿔요. 자주 쓰는 조합은 저장해 두고, 잠금으로 실수도 막아요.'),
@@ -115,6 +116,7 @@ const topics = [
     P('modelorder', '모델 순서도 테마 안에서', '직접 등록한 모델을 끌거나 화살표로 정렬해요.'),
     P('perf', '성능 보조도 선택해서', '끊김 감시 · 로딩 시간 · 요청 로그 · 저장 정리, 다섯 도구를 바로 조절해요.'),
   ], pc: [
+    S('regexlink', '끈 모듈의 정규식도 같이 꺼지게', '모듈 카드가 두 열로. 짝 프롬프트가 켜져 있으면 칩이 강조돼요.'),
     S('scripts', '왼쪽에서 고르고, 오른쪽에서 편집', '스크립트마다 코드를 수정 · 저장 · 복원할 수 있어요.'),
     S('update-tool', '업데이트도 테마 설정에서', ''),
     S('modelswitch', '여러 확장의 모델을 한 번에', ''),
@@ -185,7 +187,7 @@ const topics = [
 const $ = s => document.querySelector(s);
 function element(tag, cls, text) { const e=document.createElement(tag); if(cls)e.className=cls; if(text)e.textContent=text; return e; }
 // media cache keys: one stable key for everything; a file retaken under the same name gets its own entry here (never bump the stable key)
-const RETAKEN={'434-hero-pc-light.mp4':'b','434-hero-pc-light.jpg':'b','434-hero-pc-dark.mp4':'b','434-hero-pc-dark.jpg':'b'};
+const RETAKEN={'434-hero-pc-light.mp4':'b','434-hero-pc-light.jpg':'b','434-hero-pc-dark.mp4':'b','434-hero-pc-dark.jpg':'b','434-scripts.png':'436','434-pc-scripts.png':'436','434-update-tool.png':'436','434-pc-update-tool.png':'436','434-words.png':'436','434-pc-words.png':'436','434-order.png':'436','434-pc-order.png':'436','434-models.png':'436','434-pc-models.png':'436','434-modelorder.png':'436','434-pc-modelorder.png':'436','434-perf.png':'436','434-pc-perf.png':'436','434-modelswitch.png':'436','434-pc-modelswitch.png':'436'};
 const mv=file=>'?v='+(RETAKEN[file]||'s1');
 
 const reduceMotion=matchMedia('(prefers-reduced-motion: reduce)');
